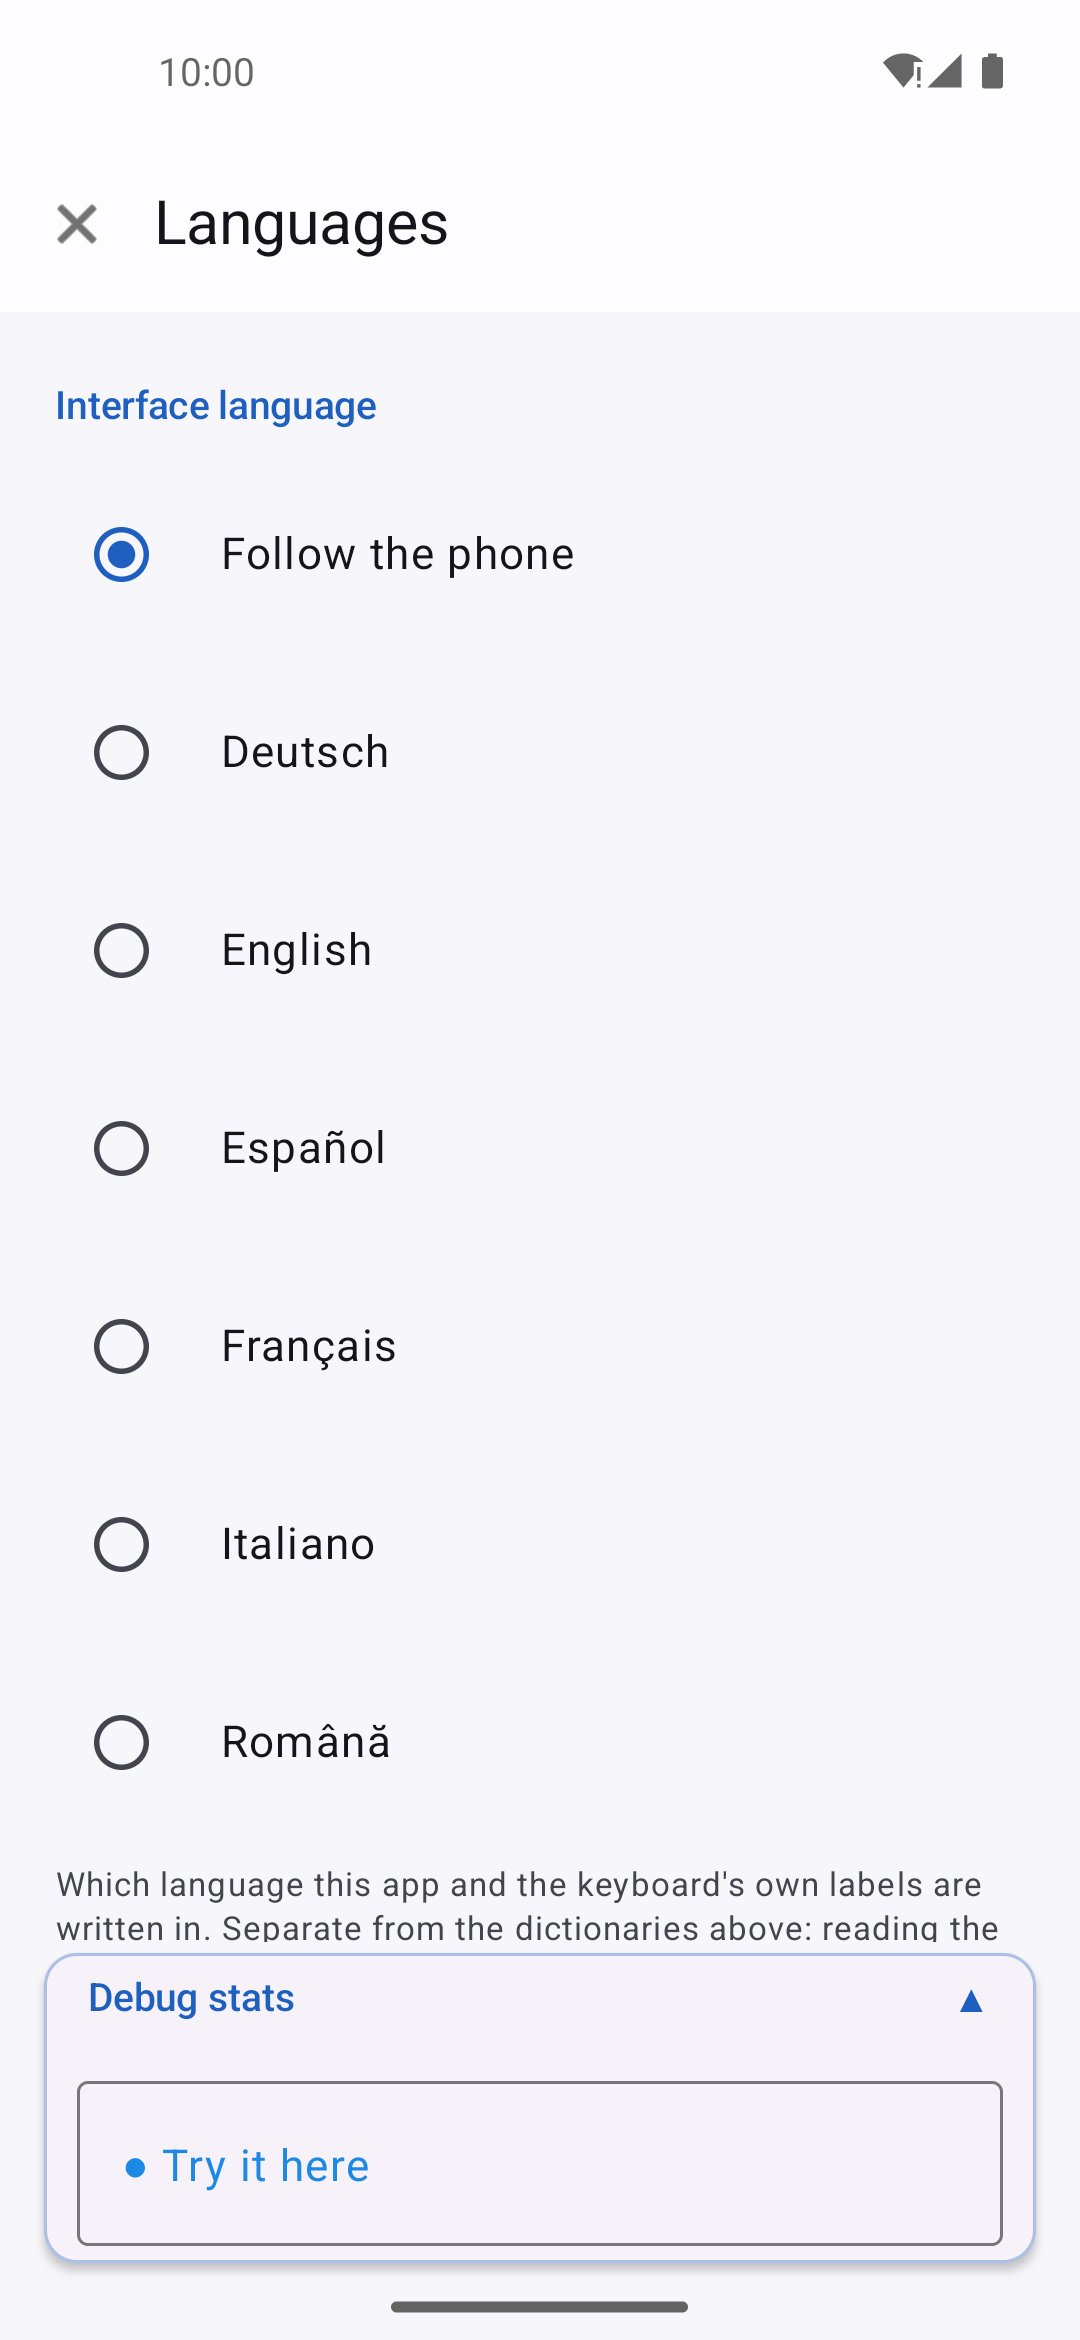
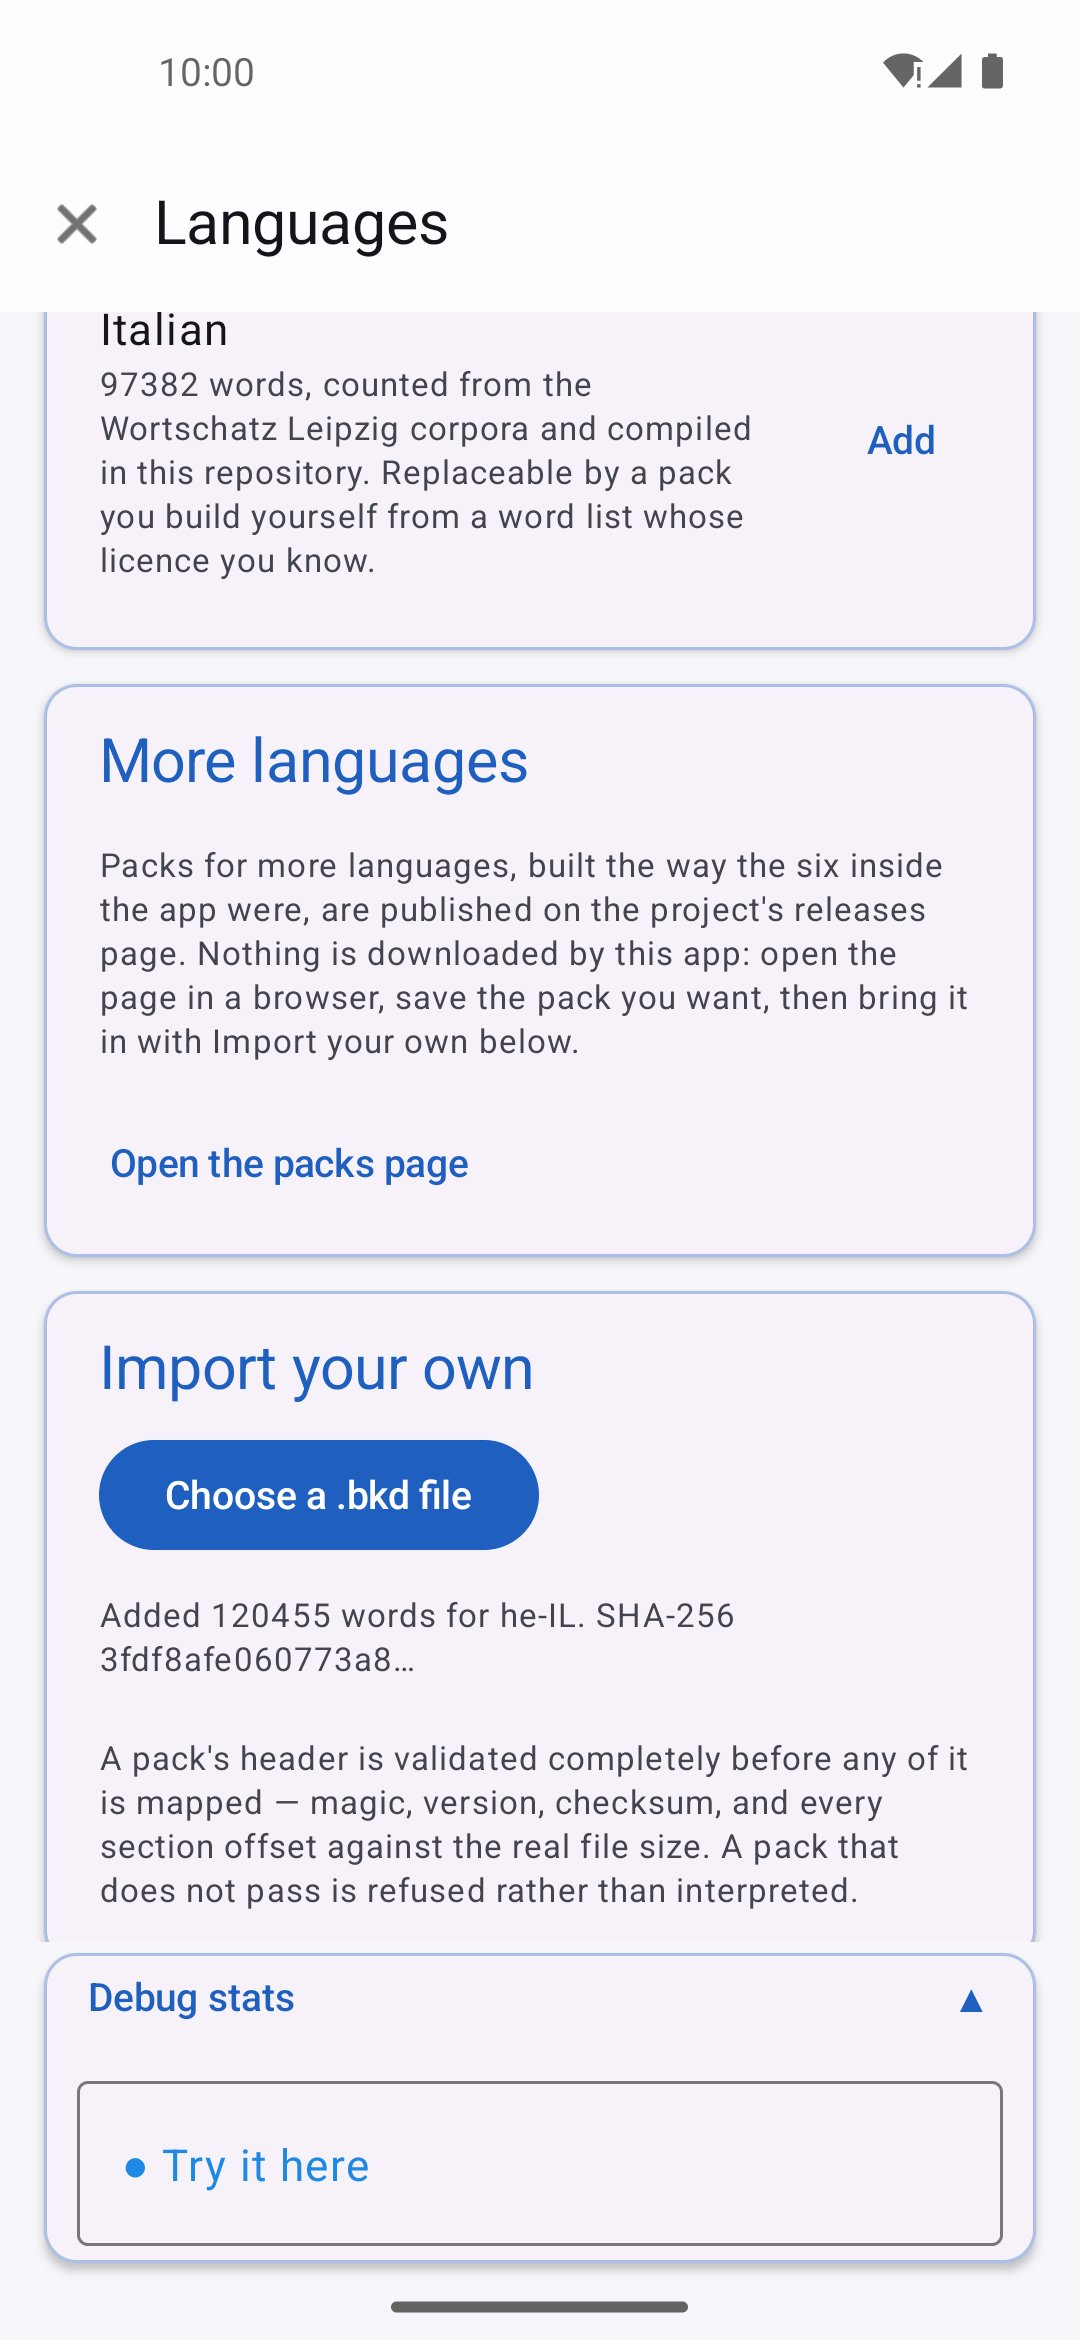
docs(fastlane): the Languages screenshot shows the packs
The Languages screenshot showed only the choice of the app's own language. Retaken in English:
a dictionary inside the app waiting to be added, the More languages card, and a downloaded
Hebrew pack just imported and checked. The same picture serves both listings, since the screen
shows nothing that differs between the builds, and the guide's alt text follows it.

diff --git a/docs/guide.md b/docs/guide.md
@@ -35,7 +35,7 @@ ships.
   a couple of words in another language still switch to it.
 
 <p align="center">
-  <img src="../fastlane/com.borderkeys/metadata/android/en-US/images/phoneScreenshots/4_languages.jpg" alt="The Languages screen: choosing which language the app and the keyboard's own labels are written in" width="30%">
+  <img src="../fastlane/com.borderkeys/metadata/android/en-US/images/phoneScreenshots/4_languages.jpg" alt="The Languages screen: a dictionary inside the app waiting to be added, the More languages card, and a downloaded Hebrew pack just imported and checked" width="30%">
 </p>
 
 - **Retroactive correction when the conversation's language turns out to differ.** A correction
